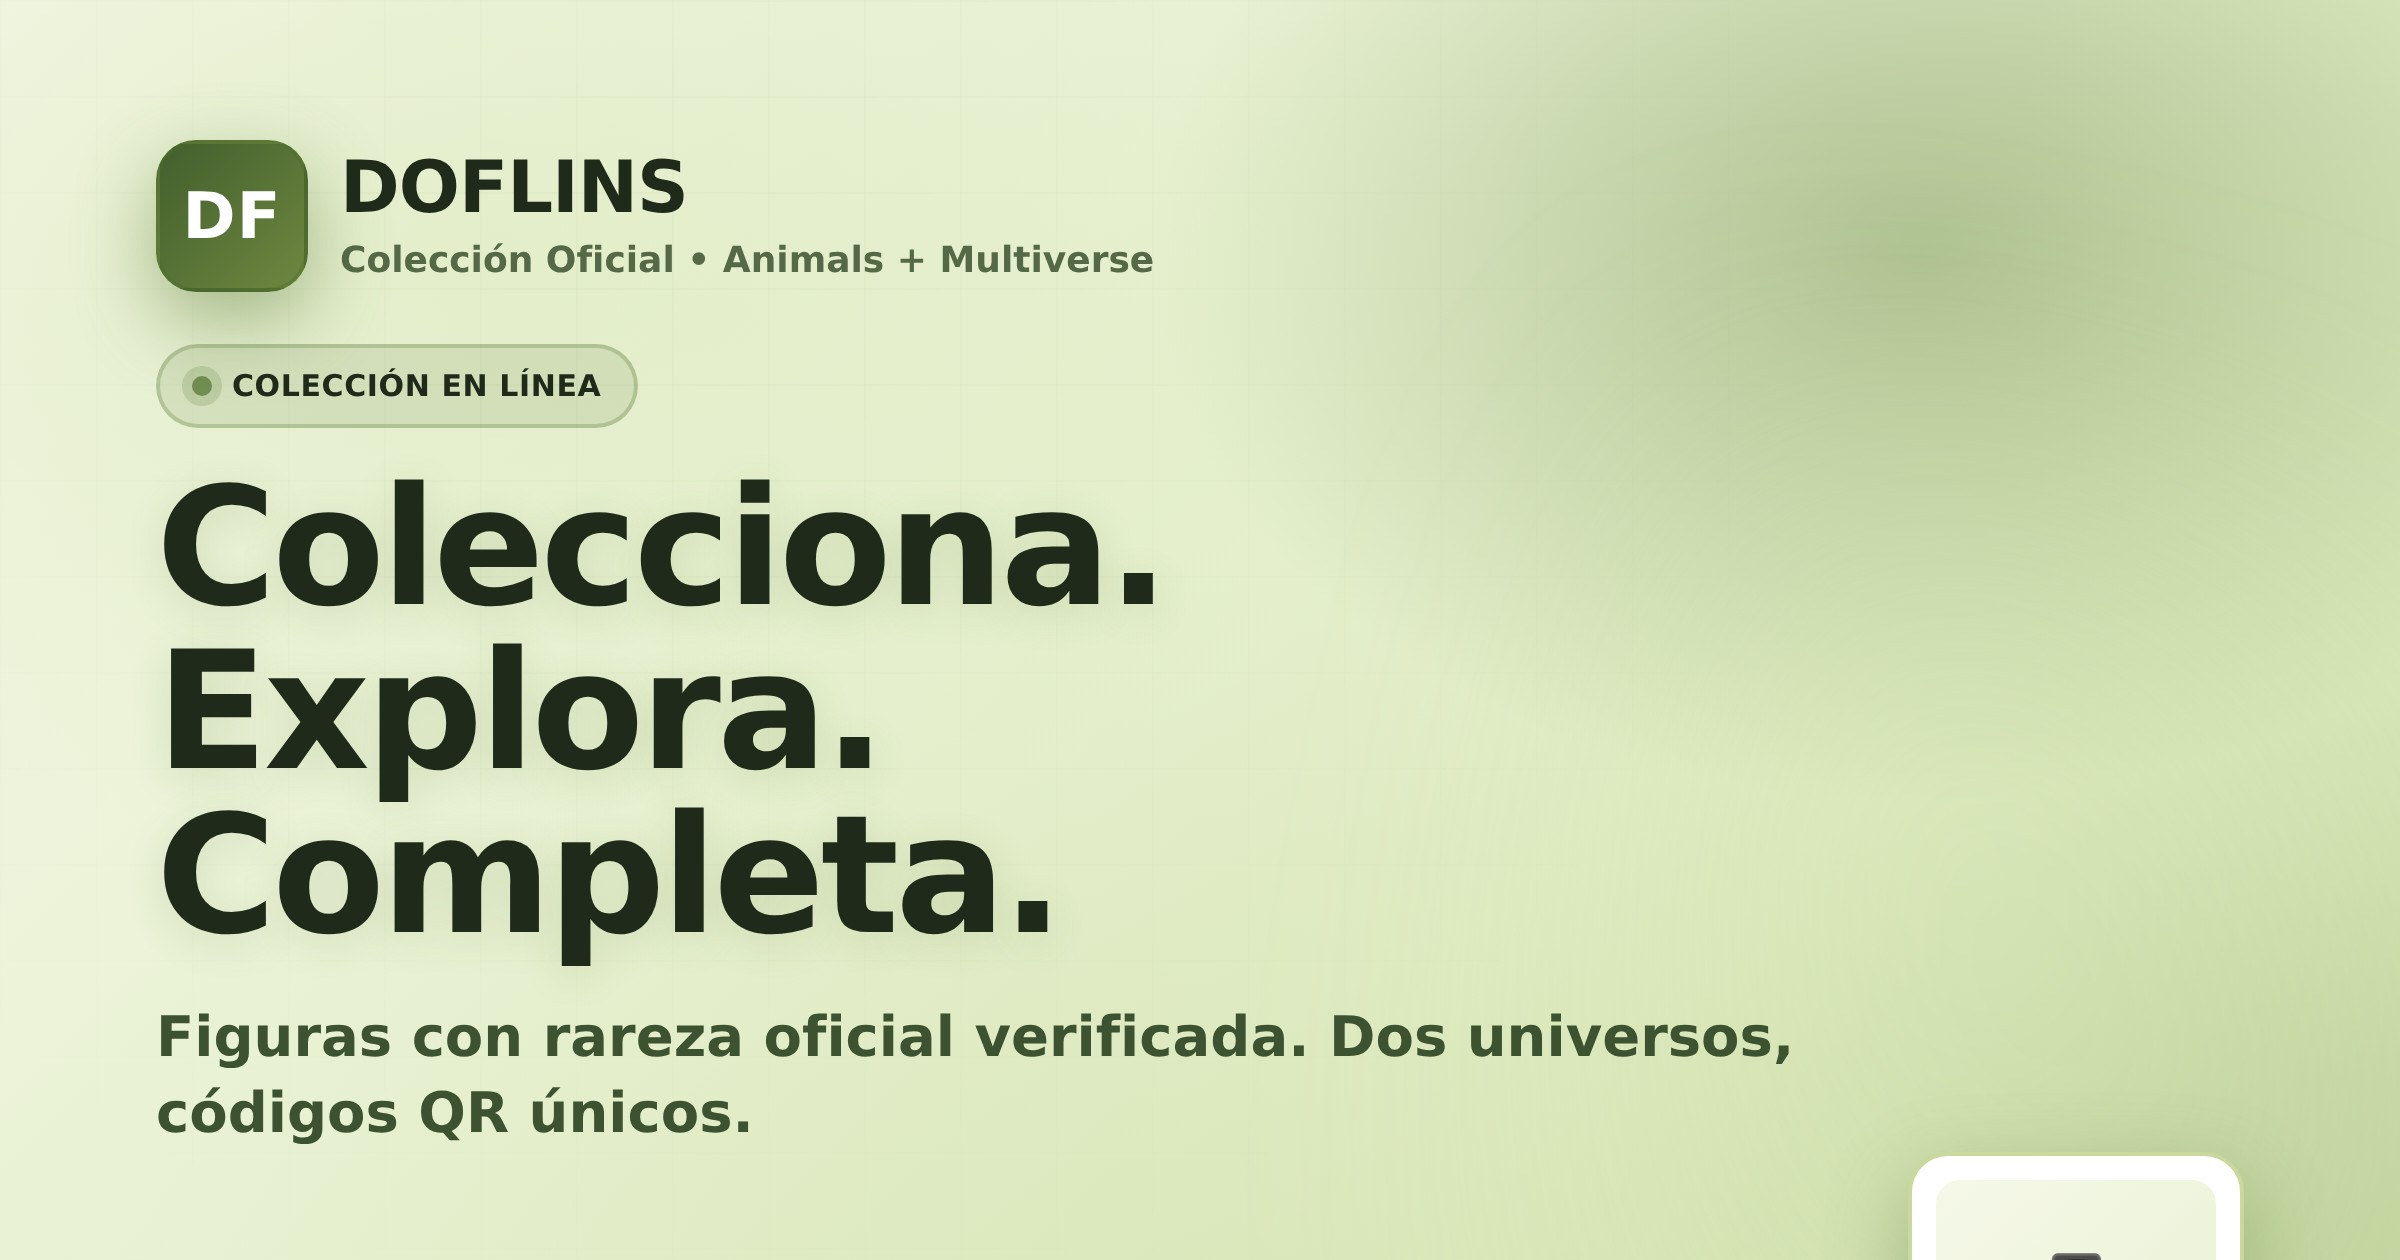
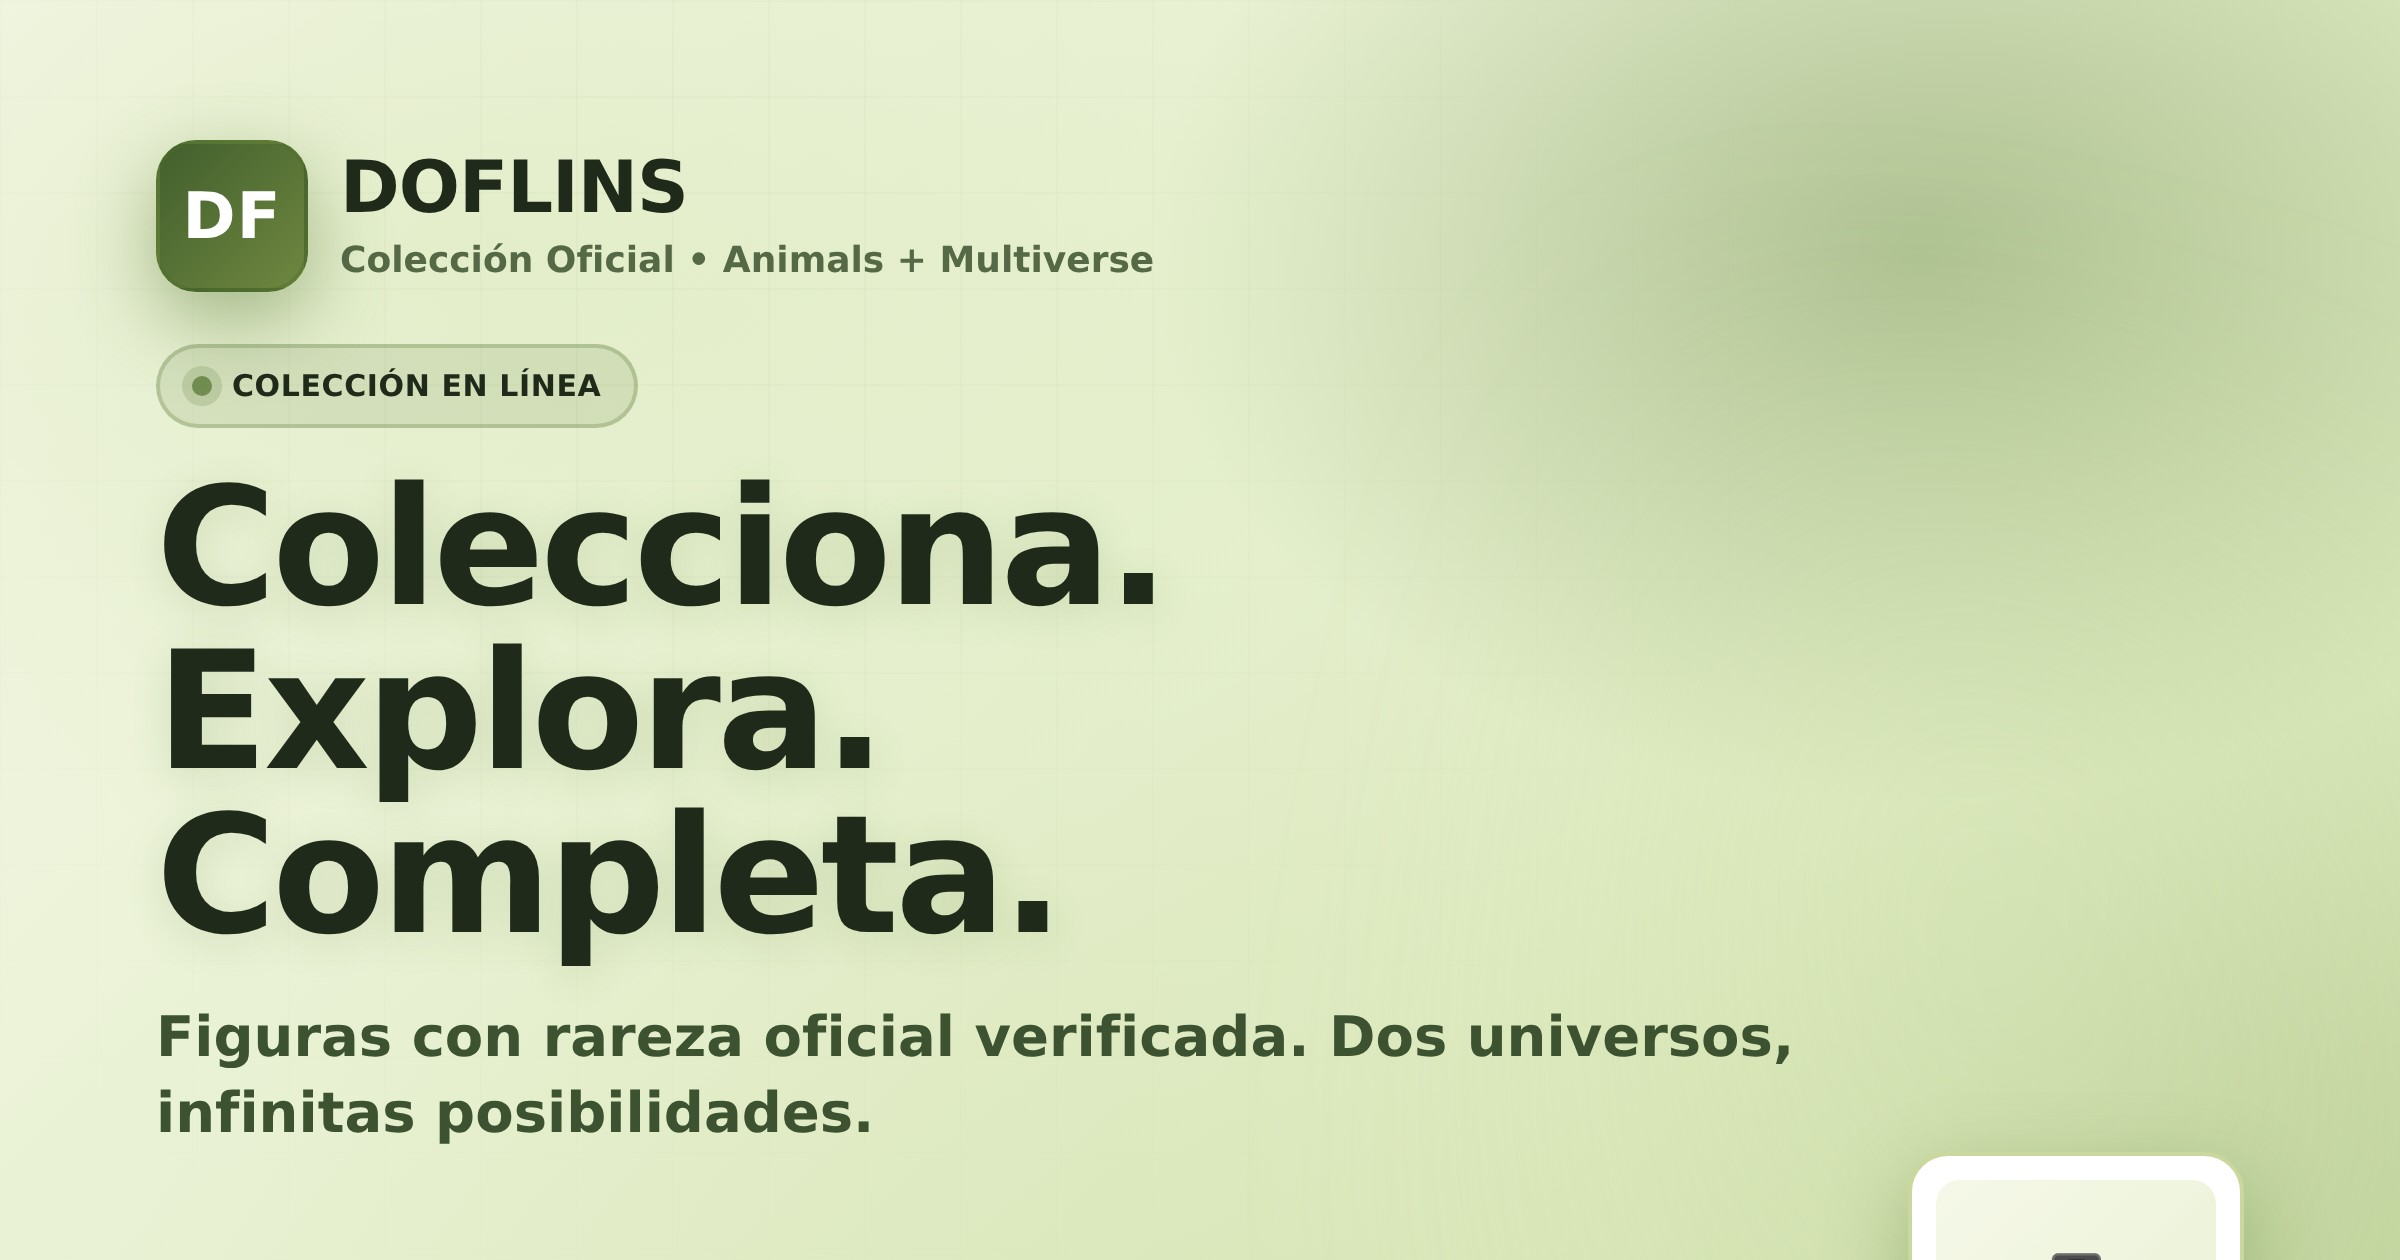
refactor: reducir menciones de código QR - enfoque en rareza y colección
Cambios para minimizar saturación de QR:

FAQ:
- Eliminar sección completa 'Códigos QR y Autenticidad' (4 preguntas)
- Agregar solo 1 pregunta breve sobre verificación de autenticidad
- Quitar mentions de QR en descripciones de rareza
- Actualizar keywords y metadata

About:
- Cambiar 'código QR único' → 'sistema de rareza oficial verificable'
- Simplificar valor de Autenticidad e Innovación
- Actualizar hero sin mencionar QR

Open Graph:
- Subtítulo: 'códigos QR únicos' → 'infinitas posibilidades'
- Chips: 'Códigos QR' → 'Coleccionables'
- Regenerar og-image.jpg con nuevo diseño

Catálogo:
- Badge: 'QR oficial verificado' → 'Rareza oficial'

Resultado: QR mencionado discretamente sin saturar, foco en colección y rareza

Changed region(s): [[0.0625, 0.8667, 0.375, 0.8976]]

diff --git a/app/faq/page.tsx b/app/faq/page.tsx
@@ -17,18 +17,17 @@ import { Button } from "@/components/ui/button";
 
 export const metadata: Metadata = {
   title: "Preguntas Frecuentes (FAQ)",
-  description: "Encuentra respuestas sobre colección DOFLINS, sistema de rareza, envíos, pagos, códigos QR y más. Guía completa para coleccionistas de figuras Animals y Multiverse.",
+  description: "Encuentra respuestas sobre colección DOFLINS, sistema de rareza, envíos, pagos y más. Guía completa para coleccionistas de figuras Animals y Multiverse.",
   keywords: [
     "doflins faq",
     "preguntas frecuentes doflins",
     "cómo funciona rareza doflins",
     "envíos doflins",
-    "códigos qr doflins",
     "colección animals multiverse",
   ],
   openGraph: {
     title: "Preguntas Frecuentes | DOFLINS",
-    description: "Respuestas sobre colección, rareza, envíos y códigos QR de figuras DOFLINS.",
+    description: "Respuestas sobre colección, rareza, envíos y compras de figuras DOFLINS.",
   },
 };
 
@@ -39,11 +38,11 @@ const faqs = [
     questions: [
       {
         q: "¿Qué son los DOFLINS?",
-        a: "DOFLINS son figuras coleccionables de dos universos: Animals y Multiverse. Cada figura tiene un sistema oficial de rareza verificado mediante código QR.",
+        a: "DOFLINS son figuras coleccionables de dos universos: Animals y Multiverse. Cada figura tiene un sistema oficial de rareza que puedes consultar en nuestro catálogo.",
       },
       {
         q: "¿Cómo funciona el sistema de rareza?",
-        a: "Cada figura tiene una rareza asignada: Común, Rara, Épica o Legendaria. Puedes verificar la rareza oficial escaneando el código QR que viene con cada figura en nuestra página de catálogo.",
+        a: "Cada figura tiene una rareza asignada: Común, Rara, Épica o Legendaria. Puedes consultar todas las rarezas oficiales en nuestra página de catálogo.",
       },
       {
         q: "¿Cuántas figuras existen en total?",
@@ -100,28 +99,6 @@ const faqs = [
     ],
   },
   {
-    icon: ShieldCheckIcon,
-    category: "Códigos QR y Autenticidad",
-    questions: [
-      {
-        q: "¿Para qué sirve el código QR?",
-        a: "Cada figura incluye un código QR único que puedes escanear en nuestro catálogo para verificar su autenticidad y rareza oficial.",
-      },
-      {
-        q: "¿Dónde escaneo el código QR?",
-        a: "Escanea el código QR con la cámara de tu celular y serás dirigido automáticamente a la página de verificación en nuestra web.",
-      },
-      {
-        q: "¿Qué hago si el código QR no funciona?",
-        a: "Si el código no escanea correctamente, contáctanos con una foto del código y de la figura para verificar su autenticidad manualmente.",
-      },
-      {
-        q: "¿Cómo sé si mi figura es auténtica?",
-        a: "Solo las figuras oficiales DOFLINS incluyen códigos QR verificables en nuestro sistema. Si el código no aparece en nuestra base de datos, podría no ser auténtico.",
-      },
-    ],
-  },
-  {
     icon: QuestionMarkCircleIcon,
     category: "Otros",
     questions: [
@@ -140,6 +117,10 @@ const faqs = [
       {
         q: "¿Cómo puedo contactar soporte?",
         a: "Envíanos un correo o contáctanos por WhatsApp. Los enlaces están en el pie de página de nuestro sitio.",
+      },
+      {
+        q: "¿Cómo verifico la autenticidad de mi figura?",
+        a: "Las figuras oficiales DOFLINS vienen con un código único. Si tienes dudas sobre la autenticidad, contáctanos con fotos de tu figura.",
       },
     ],
   },

diff --git a/app/acerca/page.tsx b/app/acerca/page.tsx
@@ -19,7 +19,7 @@ import { Badge } from "@/components/ui/badge";
 
 export const metadata: Metadata = {
   title: "Acerca de DOFLINS",
-  description: "Descubre la historia detrás de DOFLINS, nuestra misión de crear la mejor colección de figuras con rareza verificada en México. Conoce los universos Animals y Multiverse.",
+  description: "Descubre la historia detrás de DOFLINS, nuestra misión de crear la mejor colección de figuras con sistema de rareza oficial. Conoce los universos Animals y Multiverse.",
   keywords: [
     "acerca de doflins",
     "historia doflins",
@@ -38,7 +38,7 @@ export default function AboutPage(): React.JSX.Element {
     {
       icon: ShieldCheckIcon,
       title: "Autenticidad",
-      description: "Cada figura incluye código QR único para verificar su rareza oficial.",
+      description: "Sistema de rareza oficial verificable en nuestro catálogo digital.",
       color: "text-blue-600",
       bg: "bg-blue-50",
     },
@@ -59,7 +59,7 @@ export default function AboutPage(): React.JSX.Element {
     {
       icon: TrophyIcon,
       title: "Innovación",
-      description: "Sistema digital de colección y rareza verificada mediante tecnología QR.",
+      description: "Plataforma digital para llevar registro de tu colección y progreso.",
       color: "text-amber-600",
       bg: "bg-amber-50",
     },
@@ -112,9 +112,9 @@ export default function AboutPage(): React.JSX.Element {
                 dimensiones alternativas, DOFLINS ofrece diversidad y sorpresa en cada pack.
               </p>
               <p className="leading-relaxed">
-                Lo que nos hace diferentes es nuestro compromiso con la autenticidad: cada figura incluye
-                un código QR único que permite verificar su rareza oficial (Común, Rara, Épica o
-                Legendaria) en nuestro catálogo digital, garantizando transparencia total.
+                Lo que nos hace diferentes es nuestro compromiso con la autenticidad: cada figura tiene
+                su rareza oficial (Común, Rara, Épica o Legendaria) verificable en nuestro catálogo
+                digital, garantizando transparencia total.
               </p>
             </div>
           </CardContent>

diff --git a/og/template.html b/og/template.html
@@ -207,15 +207,15 @@
           <div class="kicker"><span class="dot"></span><span id="kicker">COLECCIÓN EN LÍNEA</span></div>
           <h1 id="title">Colecciona.<br>Explora.<br>Completa.</h1>
           <div class="sub" id="subtitle">
-            Figuras con rareza oficial verificada. Dos universos, códigos QR únicos.
+            Figuras con rareza oficial verificada. Dos universos, infinitas posibilidades.
           </div>
         </div>
       </div>
 
       <div class="footer">
         <div class="chips">
-          <div class="chip" id="chip1">🔥 Rareza Verificada</div>
-          <div class="chip" id="chip2">✨ Códigos QR</div>
+          <div class="chip" id="chip1">🔥 Rareza Oficial</div>
+          <div class="chip" id="chip2">✨ Coleccionables</div>
           <div class="chip" id="chip3">🇲🇽 Hecho en México</div>
         </div>
 

diff --git a/components/reveal/reveal-experience.tsx b/components/reveal/reveal-experience.tsx
@@ -1310,7 +1310,7 @@ export function RevealExperience(): React.JSX.Element {
 
             <div className="flex flex-wrap gap-2 text-sm text-[var(--ink-700)]">
               <span className={`inline-flex items-center gap-1 rounded-full border px-3 py-1.5 ${activeTheme.heroChip}`}>
-                <ShieldCheckIcon className="h-4 w-4 text-[var(--brand-primary)]" /> QR oficial verificado
+                <ShieldCheckIcon className="h-4 w-4 text-[var(--brand-primary)]" /> Rareza oficial
               </span>
               <span className={`inline-flex items-center gap-1 rounded-full border px-3 py-1.5 ${activeTheme.heroChip}`}>
                 <CubeIcon className="h-4 w-4 text-[var(--brand-primary)]" /> Catálogo oficial por figura

diff --git a/og/README.md b/og/README.md
@@ -43,14 +43,14 @@ Abre `og/template.html` y edita estos textos:
 ### Subtítulo
 ```html
 <div class="sub" id="subtitle">
-  Figuras con rareza oficial verificada. Dos universos, códigos QR únicos.
+  Figuras con rareza oficial verificada. Dos universos, infinitas posibilidades.
 </div>
 ```
 
 ### Chips (abajo)
 ```html
-<div class="chip" id="chip1">🔥 Rareza Verificada</div>
-<div class="chip" id="chip2">✨ Códigos QR</div>
+<div class="chip" id="chip1">🔥 Rareza Oficial</div>
+<div class="chip" id="chip2">✨ Coleccionables</div>
 <div class="chip" id="chip3">🇲🇽 Hecho en México</div>
 ```
 
